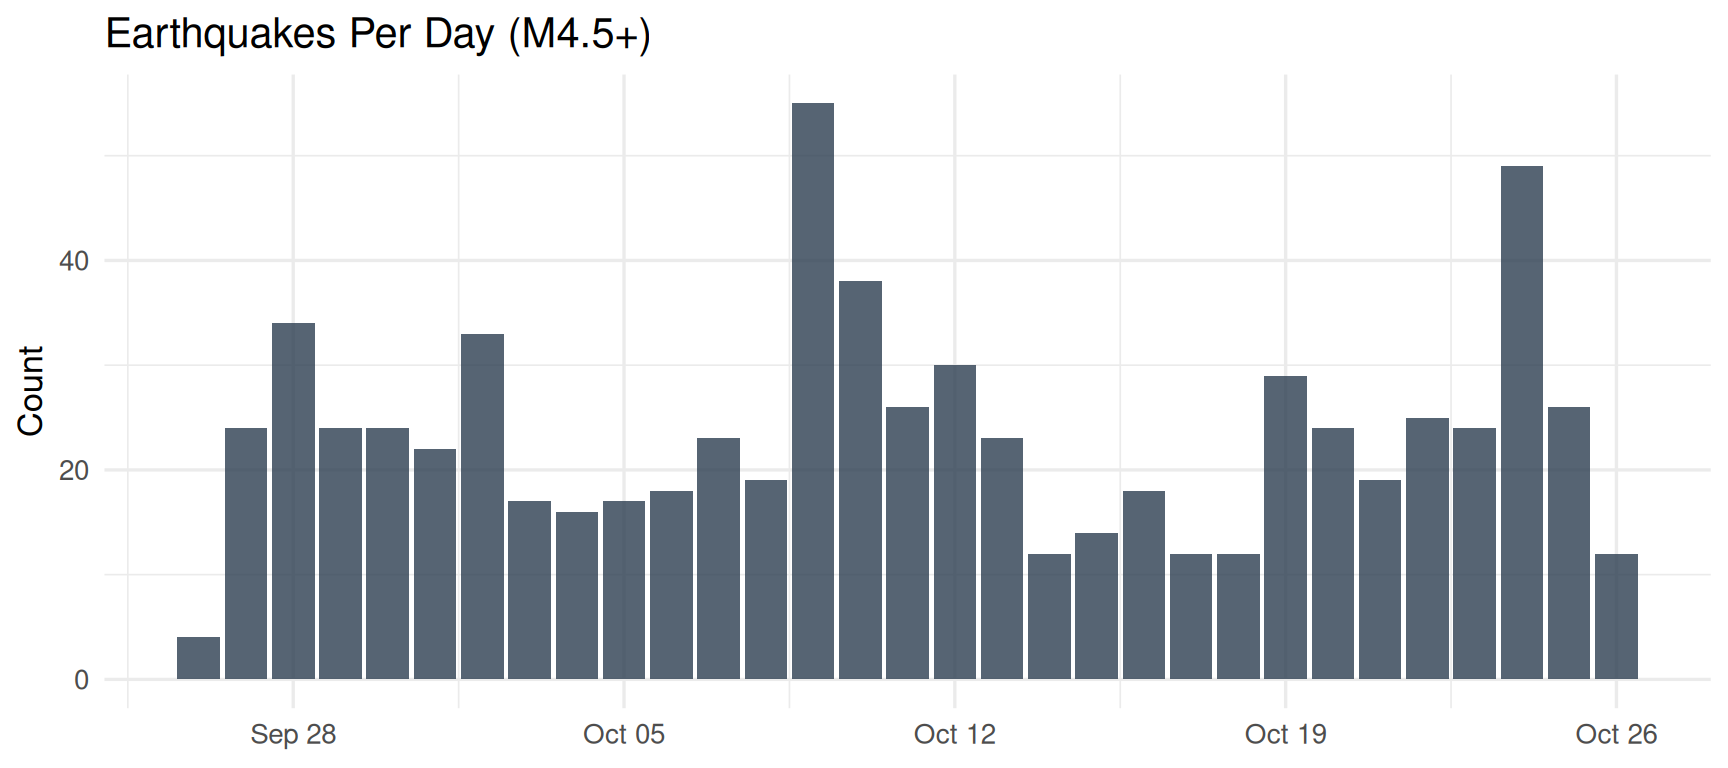
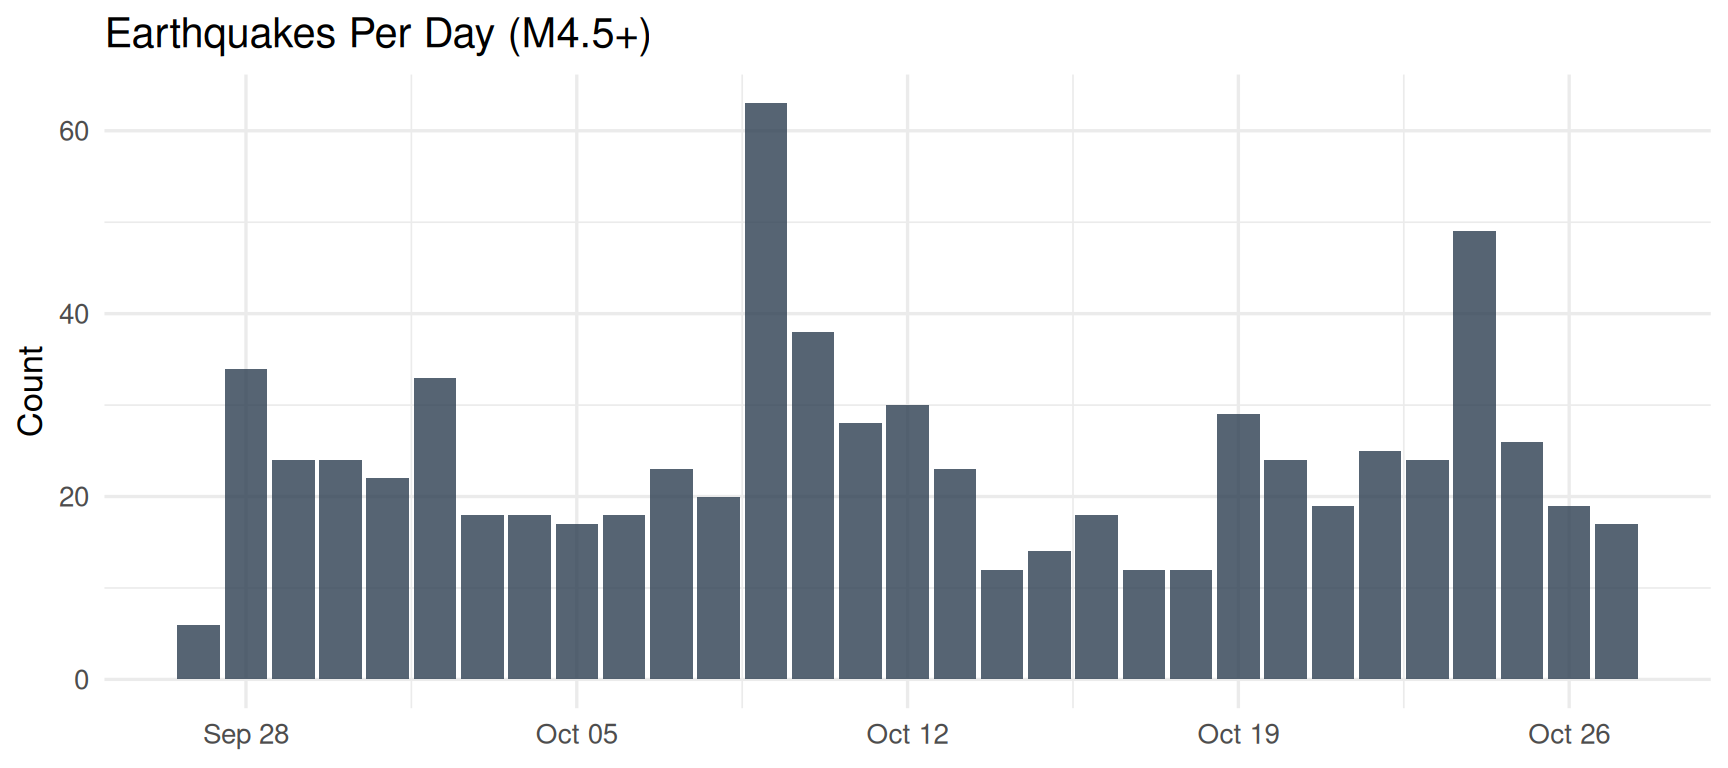
Built site for gh-pages

diff --git a/report.html b/report.html
@@ -195,7 +195,7 @@ pre > code.sourceCode > span > a:first-child::before { text-decoration: underlin
 </div>
 <section id="summary" class="level2">
 <h2 class="anchored" data-anchor-id="summary">Summary</h2>
-<p>In the past 30 days, USGS recorded 723 earthquakes of magnitude 4.5 or greater worldwide. The strongest was a magnitude 7.7 event near 12 km WSW of Pitaloza Arriba, Panama on October 09, 2026. The median magnitude was 4.7, and 17 earthquakes reached magnitude 6.0 or higher.</p>
+<p>In the past 30 days, USGS recorded 739 earthquakes of magnitude 4.5 or greater worldwide. The strongest was a magnitude 7.7 event near 12 km WSW of Pitaloza Arriba, Panama on October 09, 2026. The median magnitude was 4.8, and 17 earthquakes reached magnitude 6.0 or higher.</p>
 </section>
 <section id="strongest-earthquakes" class="level2">
 <h2 class="anchored" data-anchor-id="strongest-earthquakes">Strongest Earthquakes</h2>
@@ -387,44 +387,44 @@ pre > code.sourceCode > span > a:first-child::before { text-decoration: underlin
 </thead>
 <tbody>
 <tr class="odd">
-<td style="text-align: left;">Vanuatu</td>
-<td style="text-align: right;">88</td>
+<td style="text-align: left;">Panama</td>
+<td style="text-align: right;">94</td>
 </tr>
 <tr class="even">
-<td style="text-align: left;">Panama</td>
-<td style="text-align: right;">85</td>
+<td style="text-align: left;">Vanuatu</td>
+<td style="text-align: right;">93</td>
 </tr>
 <tr class="odd">
 <td style="text-align: left;">Indonesia</td>
-<td style="text-align: right;">57</td>
+<td style="text-align: right;">58</td>
 </tr>
 <tr class="even">
 <td style="text-align: left;">Russia</td>
-<td style="text-align: right;">51</td>
+<td style="text-align: right;">52</td>
 </tr>
 <tr class="odd">
-<td style="text-align: left;">New Caledonia</td>
-<td style="text-align: right;">39</td>
-</tr>
-<tr class="even">
 <td style="text-align: left;">China</td>
-<td style="text-align: right;">34</td>
-</tr>
-<tr class="odd">
-<td style="text-align: left;">Papua New Guinea</td>
 <td style="text-align: right;">33</td>
 </tr>
 <tr class="even">
+<td style="text-align: left;">Papua New Guinea</td>
+<td style="text-align: right;">32</td>
+</tr>
+<tr class="odd">
+<td style="text-align: left;">New Caledonia</td>
+<td style="text-align: right;">27</td>
+</tr>
+<tr class="even">
 <td style="text-align: left;">Philippines</td>
-<td style="text-align: right;">25</td>
+<td style="text-align: right;">27</td>
 </tr>
 <tr class="odd">
 <td style="text-align: left;">Japan</td>
-<td style="text-align: right;">24</td>
+<td style="text-align: right;">26</td>
 </tr>
 <tr class="even">
 <td style="text-align: left;">Tonga</td>
-<td style="text-align: right;">20</td>
+<td style="text-align: right;">21</td>
 </tr>
 </tbody>
 </table>
